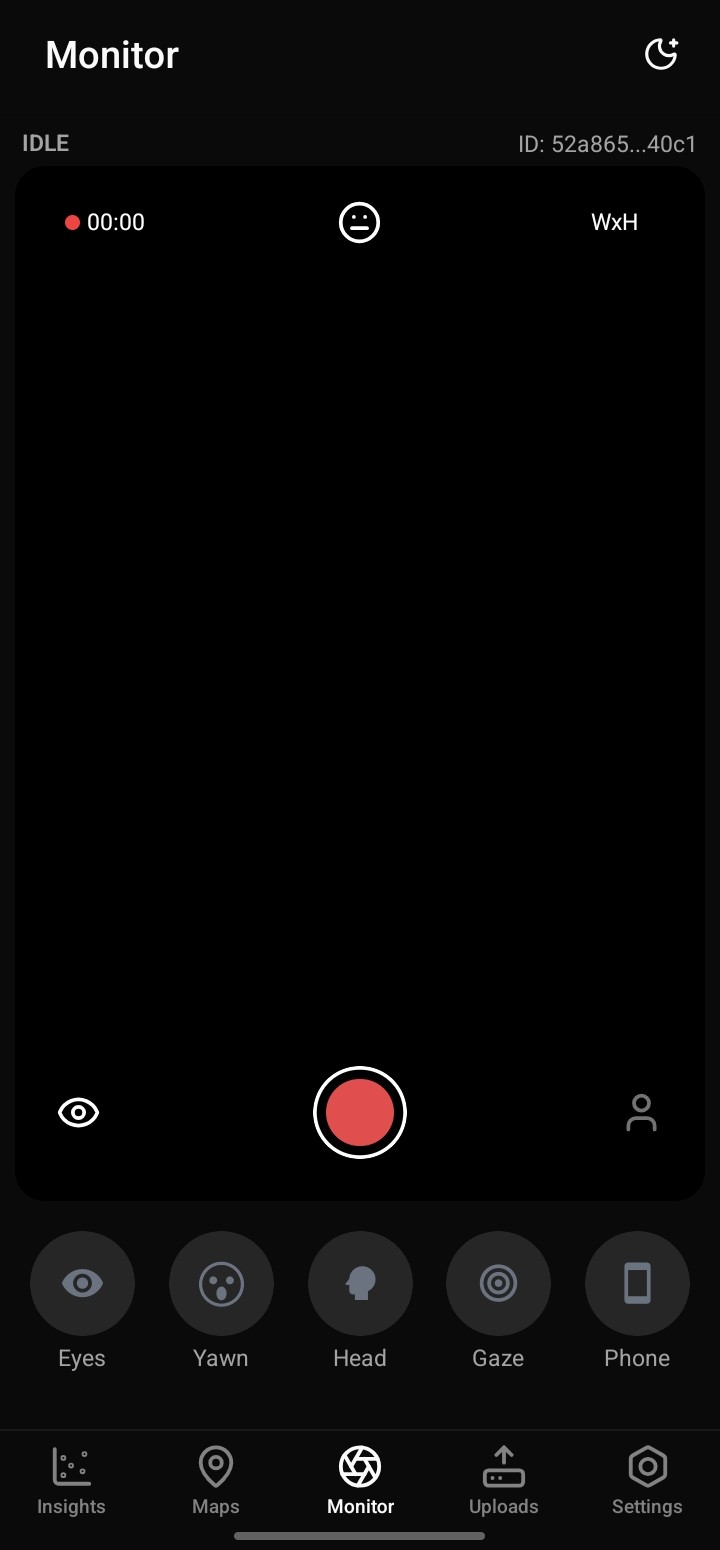
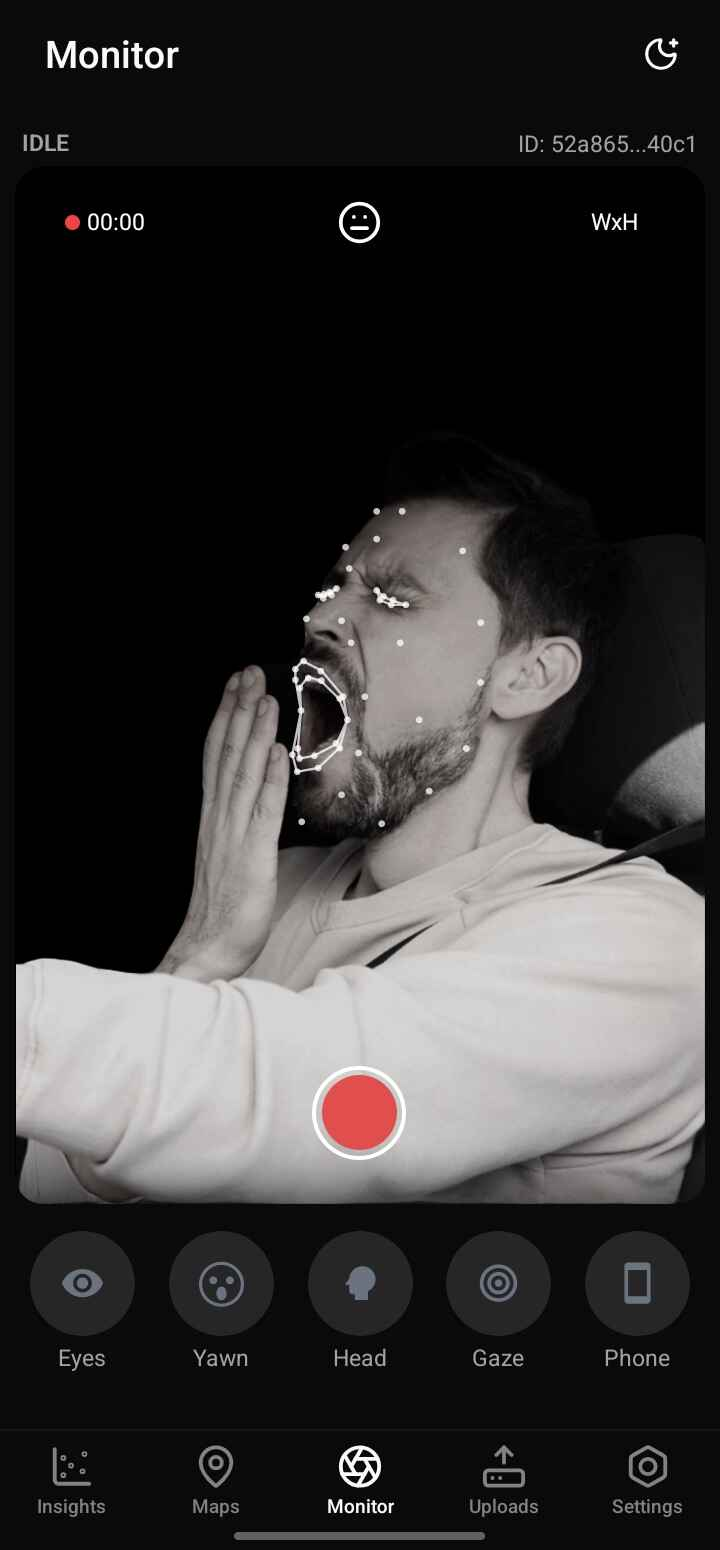
docs: update README

Changed region(s): [[0.0, 0.3097, 0.9778, 0.7742]]

diff --git a/README.md b/README.md
@@ -37,6 +37,10 @@ Manobela is a **real-time driver monitoring system** that uses computer vision t
 
 _Learn more by visiting the [website](https://manobela.vercel.app/) or the [documentation](https://github.com/popcorn-prophets/manobela/tree/master/docs)._
 
+<div align="center">
+  <img src="docs/images/preview.jpg" alt="Preview" width="360" style="border-radius:20px;" />
+</div>
+
 ### Built With
 
 [![Python](https://img.shields.io/badge/Python-3776AB?style=flat-square&logo=python&logoColor=white)](https://www.python.org/)
